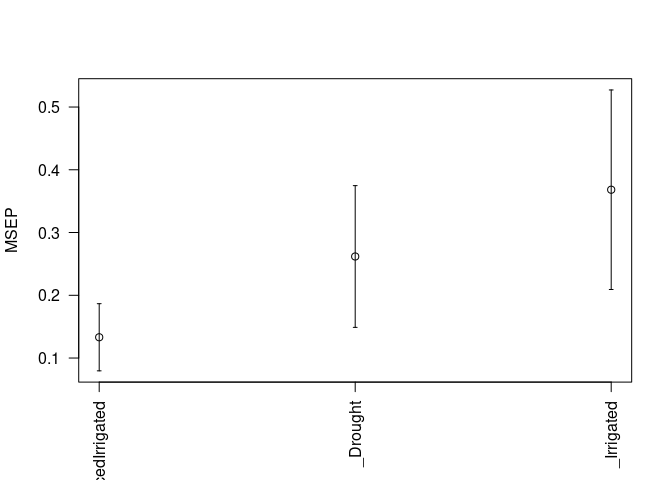
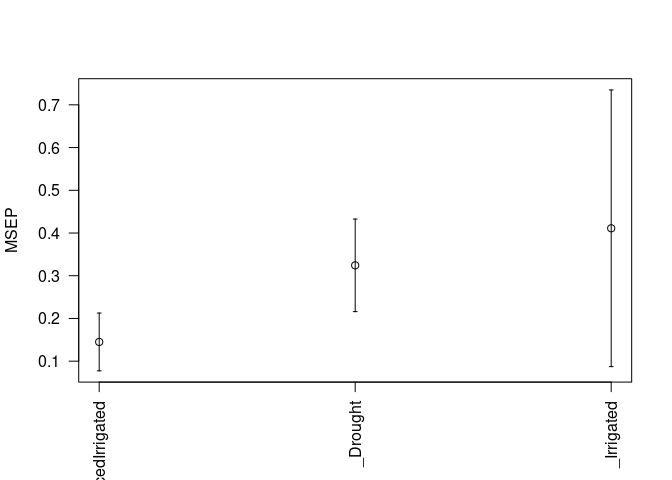
Readme update

diff --git a/README.md b/README.md
@@ -2,7 +2,7 @@
 <p align="center">
 <a href="https://github.com/frahik/GFR"> <img src="Logo.png" alt="Genomic Functional Regression Logo"/> </a>
 <h3 align="center">
-    Genomic Functional Regression analysis in R | Development version 0.9 - rev 7 
+    Genomic Functional Regression analysis in R | Development version 0.9 - rev 10
 
 </h4>
 <p align="center">
@@ -20,7 +20,7 @@ Table of contents
 =================
 
 -   [NEWS](#news)
--   [instructions](#instructions)
+-   [Instructions](#instructions)
     -   [Installation](#install)
     -   [Demostration examples](#demo)
     -   [Web version](#shinyapp)
@@ -37,9 +37,14 @@ Table of contents
 <h2 id="news">
 News of this version (0.9)
 </h2>
-     * The package now inclues a shiny app.
-     * Rename from BGFRA -> BFR -> GFR
-     * Initial development is in progress, but there has not yet been a stable, usable release suitable for the public; this is a pre-release, be careful.
+Revision 10
+
+-   The package now inclues a shiny app.
+
+Past revisions
+
+-   Rename from BGFRA -&gt; BFR -&gt; GFR
+-   Initial development is in progress, but there has not yet been a stable, usable release suitable for the public; this is a pre-release, be careful.
 
 <h2 id="instructions">
 Instructions for proper implementation
@@ -155,6 +160,8 @@ paste0('Number of wavelenths:',length( Maize_Wavelengths)) # Load from data Maiz
 <h4 id="fit-model">
 Fitting a model
 </h4>
+To more simple way to fit a model is with one environment and one trait data,
+
 ``` r
 data("Wheat_GFR")
 data <- Wheat_GFR[which(Wheat_GFR$Env == 'Drought'), ]
@@ -169,6 +176,8 @@ plot(fm)
 <h4 id="predictive-model">
 Predictive model with a K-Folds Cross-validation
 </h4>
+To do a predictive model with a cross-validation, only we need to provide a list object with the type and the number of crossvalidation to do, in the package is available two cross-validatin types, in the following code, we see the CV K-Folds,
+
 ``` r
 data("Wheat_GFR")
 data <- Wheat_GFR[which(Wheat_GFR$Env == 'Drought'), ]
@@ -185,10 +194,10 @@ summary(pm)
 ```
 
     ##          Fold     Env Trait Pearson SE_Pearson   MSEP SE_MSEP   Time
-    ## 1           1 Drought        0.1775         NA 0.2653      NA 1.1860
-    ## 2           2 Drought            NA         NA 0.6432      NA 0.0720
-    ## 3           3 Drought       -0.0001         NA 0.4550      NA 0.0630
-    ## 4 Average_all Drought        0.0887     0.0725 0.4545  0.1091 0.4403
+    ## 1           1 Drought        0.1775         NA 0.2653      NA 1.3880
+    ## 2           2 Drought            NA         NA 0.6432      NA 0.1060
+    ## 3           3 Drought       -0.0001         NA 0.4550      NA 0.0650
+    ## 4 Average_all Drought        0.0887     0.0725 0.4545  0.1091 0.5197
 
 ``` r
 boxplot(pm)
@@ -199,6 +208,8 @@ boxplot(pm)
 <h4 id="auto-ETA">
 Generate automatically a linear predictor (Only Multi-Environment example)
 </h4>
+For more advanced predictions, we also provide a eta generator, for the estimations, this function automatically prepare the data and do a lot of validations, this is the recomended way to do a proper analysis,
+
 ``` r
 library(GFR)
 data("Wheat_GFR")
@@ -225,16 +236,16 @@ summary(pm2)
     ## 11 Average_all          Drought        0.5505     0.0945 0.3185  0.0512
     ## 12 Average_all ReducedIrrigated        0.1890     0.0772 0.1529  0.0170
     ##      Time
-    ## 1  0.8960
+    ## 1  1.2160
     ## 2      NA
     ## 3      NA
-    ## 4  0.9730
+    ## 4  1.1540
     ## 5      NA
     ## 6      NA
-    ## 7  0.8650
+    ## 7  1.0790
     ## 8      NA
     ## 9      NA
-    ## 10 0.9113
+    ## 10 1.1497
     ## 11     NA
     ## 12     NA
 
@@ -247,9 +258,11 @@ plot(pm2)
 <h4 id="auto-ETA2">
 Generate automatically a linear predictor (Multi-Trait & Multi-Environment example)
 </h4>
+Also, you can add some special terms, but be carefull,
+
 ``` r
 data("Maize_GFR")
-CrossV <- list(Type = 'RandomPartition', NPartitions = 5, PTesting = .25)
+CrossV <- list(Type = 'RandomPartition', NPartitions = 3, PTesting = .25)
 ETA3 <- ETAGenerate(Maize_GFR, basisType = 'Bspline.Basis', Bands = Maize_Bands, Wavelengths = Maize_Wavelengths, priorType = 'BRR', method = 'Simple', nBasis = 21)
 ETA3$Design
 ```
@@ -279,67 +292,51 @@ pm3 <- BFR(ETA = ETA3, data, nIter = 1000, burnIn = 300, set_seed = 10, CrossVal
 summary(pm3)
 ```
 
-    ##           Fold Env Trait Pearson SE_Pearson     MSEP SE_MSEP    Time
-    ## 1            1 EBU   ASI  0.0818         NA   5.5920      NA 33.6520
-    ## 2            1 KAK   ASI  0.0897         NA   5.4972      NA      NA
-    ## 3            1 KTI   ASI  0.1983         NA   5.9503      NA      NA
-    ## 4            1 EBU    PH -0.0014         NA 123.3057      NA      NA
-    ## 5            1 KAK    PH  0.4269         NA 166.8797      NA      NA
-    ## 6            1 KTI    PH  0.0419         NA 326.3063      NA      NA
-    ## 7            1 EBU Yield -0.0793         NA   6.8618      NA      NA
-    ## 8            1 KAK Yield -0.0218         NA   5.6789      NA      NA
-    ## 9            1 KTI Yield -0.0608         NA   7.5300      NA      NA
-    ## 10           2 EBU   ASI  0.0245         NA   4.6165      NA 32.3570
-    ## 11           2 KAK   ASI -0.0066         NA   6.1229      NA      NA
-    ## 12           2 KTI   ASI -0.0722         NA   4.5063      NA      NA
-    ## 13           2 EBU    PH  0.0469         NA 102.8028      NA      NA
-    ## 14           2 KAK    PH  0.4357         NA 114.6915      NA      NA
-    ## 15           2 KTI    PH  0.4313         NA 221.3545      NA      NA
-    ## 16           2 EBU Yield  0.1116         NA   4.3112      NA      NA
-    ## 17           2 KAK Yield  0.3214         NA   4.8599      NA      NA
-    ## 18           2 KTI Yield  0.1596         NA   4.3757      NA      NA
-    ## 19           3 EBU   ASI -0.1242         NA   5.0020      NA 32.6330
-    ## 20           3 KAK   ASI  0.0759         NA   5.5440      NA      NA
-    ## 21           3 KTI   ASI  0.1949         NA   4.8371      NA      NA
-    ## 22           3 EBU    PH  0.0229         NA 458.4495      NA      NA
-    ## 23           3 KAK    PH  0.3700         NA 118.9567      NA      NA
-    ## 24           3 KTI    PH  0.1867         NA 308.4166      NA      NA
-    ## 25           3 EBU Yield -0.0659         NA   6.0567      NA      NA
-    ## 26           3 KAK Yield -0.0231         NA   5.1622      NA      NA
-    ## 27           3 KTI Yield  0.0842         NA   5.5449      NA      NA
-    ## 28           4 EBU   ASI -0.0486         NA   6.8234      NA 33.1740
-    ## 29           4 KAK   ASI  0.0863         NA   6.7819      NA      NA
-    ## 30           4 KTI   ASI  0.1523         NA   4.3941      NA      NA
-    ## 31           4 EBU    PH  0.1030         NA 103.2326      NA      NA
-    ## 32           4 KAK    PH  0.3981         NA 135.7808      NA      NA
-    ## 33           4 KTI    PH  0.5067         NA 159.8392      NA      NA
-    ## 34           4 EBU Yield  0.0057         NA   6.6224      NA      NA
-    ## 35           4 KAK Yield  0.0940         NA   6.6943      NA      NA
-    ## 36           4 KTI Yield  0.1374         NA   5.0233      NA      NA
-    ## 37           5 EBU   ASI  0.2135         NA   5.0522      NA 33.9270
-    ## 38           5 KAK   ASI -0.0246         NA   7.6460      NA      NA
-    ## 39           5 KTI   ASI -0.1267         NA   5.3158      NA      NA
-    ## 40           5 EBU    PH  0.0844         NA 431.1487      NA      NA
-    ## 41           5 KAK    PH  0.2942         NA 114.0388      NA      NA
-    ## 42           5 KTI    PH  0.0787         NA 276.4580      NA      NA
-    ## 43           5 EBU Yield  0.2978         NA   4.6376      NA      NA
-    ## 44           5 KAK Yield  0.0654         NA   7.0154      NA      NA
-    ## 45           5 KTI Yield -0.0740         NA   5.5507      NA      NA
-    ## 46 Average_all EBU   ASI  0.0294     0.0576   5.4172  0.3844 33.1486
-    ## 47 Average_all KAK   ASI  0.0441     0.0247   6.3184  0.4056      NA
-    ## 48 Average_all KTI   ASI  0.0693     0.0699   5.0007  0.2864      NA
-    ## 49 Average_all EBU    PH  0.0512     0.0192 243.7879 82.2594      NA
-    ## 50 Average_all KAK    PH  0.3850     0.0255 130.0695 10.0114      NA
-    ## 51 Average_all KTI    PH  0.2491     0.0937 258.4749 30.4348      NA
-    ## 52 Average_all EBU Yield  0.0540     0.0697   5.6979  0.5189      NA
-    ## 53 Average_all KAK Yield  0.0872     0.0630   5.8821  0.4212      NA
-    ## 54 Average_all KTI Yield  0.0493     0.0492   5.6049  0.5273      NA
+    ##           Fold Env Trait Pearson SE_Pearson     MSEP  SE_MSEP   Time
+    ## 1            1 EBU   ASI  0.1668         NA   4.2592       NA 34.388
+    ## 2            1 KAK   ASI -0.1026         NA   5.7702       NA     NA
+    ## 3            1 KTI   ASI  0.0722         NA   5.1299       NA     NA
+    ## 4            1 EBU    PH  0.0043         NA 120.0482       NA     NA
+    ## 5            1 KAK    PH  0.4246         NA 167.1178       NA     NA
+    ## 6            1 KTI    PH -0.0221         NA 336.7745       NA     NA
+    ## 7            1 EBU Yield  0.1243         NA   4.3735       NA     NA
+    ## 8            1 KAK Yield  0.0511         NA   5.7813       NA     NA
+    ## 9            1 KTI Yield -0.1640         NA   6.7589       NA     NA
+    ## 10           2 EBU   ASI  0.2678         NA   3.5201       NA 35.222
+    ## 11           2 KAK   ASI  0.2889         NA   3.4843       NA     NA
+    ## 12           2 KTI   ASI -0.0751         NA   5.1514       NA     NA
+    ## 13           2 EBU    PH -0.0604         NA 112.8466       NA     NA
+    ## 14           2 KAK    PH  0.3229         NA 127.8429       NA     NA
+    ## 15           2 KTI    PH  0.5081         NA 209.1478       NA     NA
+    ## 16           2 EBU Yield  0.1364         NA   3.5517       NA     NA
+    ## 17           2 KAK Yield  0.1087         NA   3.6162       NA     NA
+    ## 18           2 KTI Yield  0.1264         NA   5.3792       NA     NA
+    ## 19           3 EBU   ASI  0.0354         NA   4.4649       NA 35.315
+    ## 20           3 KAK   ASI -0.0533         NA   6.7697       NA     NA
+    ## 21           3 KTI   ASI  0.0124         NA   4.1109       NA     NA
+    ## 22           3 EBU    PH  0.0076         NA 462.8990       NA     NA
+    ## 23           3 KAK    PH  0.4136         NA 113.8976       NA     NA
+    ## 24           3 KTI    PH  0.2040         NA 307.4324       NA     NA
+    ## 25           3 EBU Yield -0.0118         NA   5.4778       NA     NA
+    ## 26           3 KAK Yield  0.0097         NA   5.4797       NA     NA
+    ## 27           3 KTI Yield  0.1427         NA   4.3796       NA     NA
+    ## 28 Average_all EBU   ASI  0.1567     0.0673   4.0814   0.2869 34.975
+    ## 29 Average_all KAK   ASI  0.0443     0.1231   5.3414   0.9723     NA
+    ## 30 Average_all KTI   ASI  0.0032     0.0428   4.7974   0.3433     NA
+    ## 31 Average_all EBU    PH -0.0162     0.0221 231.9313 115.5026     NA
+    ## 32 Average_all KAK    PH  0.3871     0.0322 136.2861  15.9328     NA
+    ## 33 Average_all KTI    PH  0.2300     0.1536 284.4516  38.5929     NA
+    ## 34 Average_all EBU Yield  0.0830     0.0475   4.4677   0.5580     NA
+    ## 35 Average_all KAK Yield  0.0565     0.0287   4.9590   0.6771     NA
+    ## 36 Average_all KTI Yield  0.0350     0.0996   5.5059   0.6898     NA
 
 <h4 id="HM-ETA">
 Handmade linear predictor
 </h4>
+If you are a expert and know what are you doing, you can generate the ETA manually,
+
 ``` r
-CrossV <- list(Type = 'KFold', nFolds = 5)
+CrossV <- list(Type = 'KFold', nFolds = 3)
 ETA4 <- list(Env = list(X = model.matrix(~0+as.factor(Wheat_GFR$Env)), model = 'FIXED'),
              Line = list(X = model.matrix(~0+as.factor(Wheat_GFR$Line)), model = 'BRR'),
              Bands = list(X = Bspline.Basis(Wheat_Bands, Wheat_Wavelengths, nBasis = 23), model = 'BayesA'))
@@ -348,43 +345,31 @@ summary(pm4)
 ```
 
     ##           Fold              Env Trait Pearson SE_Pearson   MSEP SE_MSEP
-    ## 1            1        Irrigated        0.3035         NA 0.1476      NA
-    ## 2            1          Drought        0.2644         NA 0.4583      NA
-    ## 3            1 ReducedIrrigated        0.5706         NA 0.0730      NA
-    ## 4            2 ReducedIrrigated        0.4185         NA 0.1796      NA
-    ## 5            2          Drought        0.6301         NA 0.1445      NA
-    ## 6            2        Irrigated        0.1378         NA 0.4288      NA
-    ## 7            3 ReducedIrrigated        0.1951         NA 0.2130      NA
-    ## 8            3          Drought        0.6930         NA 0.3071      NA
-    ## 9            3        Irrigated        0.4047         NA 0.2105      NA
-    ## 10           4 ReducedIrrigated        0.6902         NA 0.0841      NA
-    ## 11           4        Irrigated       -0.3249         NA 0.4834      NA
-    ## 12           4          Drought        0.8480         NA 0.1537      NA
-    ## 13           5        Irrigated       -0.2126         NA 0.5707      NA
-    ## 14           5 ReducedIrrigated        0.3979         NA 0.1157      NA
-    ## 15           5          Drought        0.7617         NA 0.2453      NA
-    ## 16 Average_all        Irrigated        0.0617     0.1426 0.3682  0.0811
-    ## 17 Average_all          Drought        0.6394     0.1005 0.2618  0.0576
-    ## 18 Average_all ReducedIrrigated        0.4545     0.0839 0.1331  0.0273
+    ## 1            1        Irrigated        0.0829         NA 0.1649      NA
+    ## 2            1          Drought        0.2781         NA 0.3881      NA
+    ## 3            1 ReducedIrrigated        0.5140         NA 0.0760      NA
+    ## 4            2 ReducedIrrigated        0.3857         NA 0.1803      NA
+    ## 5            2          Drought        0.7182         NA 0.2142      NA
+    ## 6            2        Irrigated        0.1544         NA 0.3431      NA
+    ## 7            3          Drought        0.5427         NA 0.3707      NA
+    ## 8            3 ReducedIrrigated        0.2257         NA 0.1787      NA
+    ## 9            3        Irrigated       -0.4164         NA 0.7249      NA
+    ## 10 Average_all        Irrigated       -0.0597     0.1795 0.4110  0.1652
+    ## 11 Average_all          Drought        0.5130     0.1279 0.3243  0.0553
+    ## 12 Average_all ReducedIrrigated        0.3751     0.0834 0.1450  0.0345
     ##      Time
-    ## 1  0.3070
+    ## 1  2.1230
     ## 2      NA
     ## 3      NA
-    ## 4  0.4590
+    ## 4  0.7560
     ## 5      NA
     ## 6      NA
-    ## 7  0.3530
+    ## 7  0.5780
     ## 8      NA
     ## 9      NA
-    ## 10 0.3660
+    ## 10 1.1523
     ## 11     NA
     ## 12     NA
-    ## 13 0.3760
-    ## 14     NA
-    ## 15     NA
-    ## 16 0.3722
-    ## 17     NA
-    ## 18     NA
 
 ``` r
 plot(pm4, select = 'MSEP')
@@ -397,6 +382,30 @@ boxplot(pm4, select = 'MSEP')
 ```
 
 ![](README_files/figure-markdown_github/HM_ETA-2.png)
+
+<h4 id="autoclean">
+Clean the working directory
+</h4>
+If you don't need anymore the files that the `BFR()` function creates, you can clean the directory with the following function provided in the package,
+
+``` r
+cleanDat(forceClean = TRUE)
+```
+
+    ##     ETA_Bands_parBayesB.dat   ETA_Bands_ScaleBayesA.dat 
+    ##                        TRUE                        TRUE 
+    ##          ETA_Bands_varB.dat               ETA_Env_b.dat 
+    ##                        TRUE                        TRUE 
+    ##      ETA_EnvxTrait_varB.dat ETA_EnvxTraitxLine_varB.dat 
+    ##                        TRUE                        TRUE 
+    ##      ETA_Line_parBayesB.dat           ETA_Line_varB.dat 
+    ##                        TRUE                        TRUE 
+    ##  ETA_LinexEnv_parBayesB.dat       ETA_LinexEnv_varB.dat 
+    ##                        TRUE                        TRUE 
+    ##     ETA_LinexTrait_varB.dat             ETA_Trait_b.dat 
+    ##                        TRUE                        TRUE 
+    ##                      mu.dat                    varE.dat 
+    ##                        TRUE                        TRUE
 
 <h2 id="cite">
 How to cite this package
@@ -417,8 +426,8 @@ If you have any suggestions or feedback, I would love to hear about it. Feel fre
 <h2 id="authors">
 Authors
 </h2>
-    * Francisco Javier Luna-Vázquez (Author, Maintainer)
-    * Osval Antonio Montesinos-López (Author)
-    * Abelardo Montesinos-López (Author)
-    * José Crossa (Author)
-    * Gustavo de los campos (Author)
+-   Francisco Javier Luna-Vázquez (Author, Maintainer)
+-   Osval Antonio Montesinos-López (Author)
+-   Abelardo Montesinos-López (Author)
+-   José Crossa (Author)
+-   Gustavo de los campos (Author)
